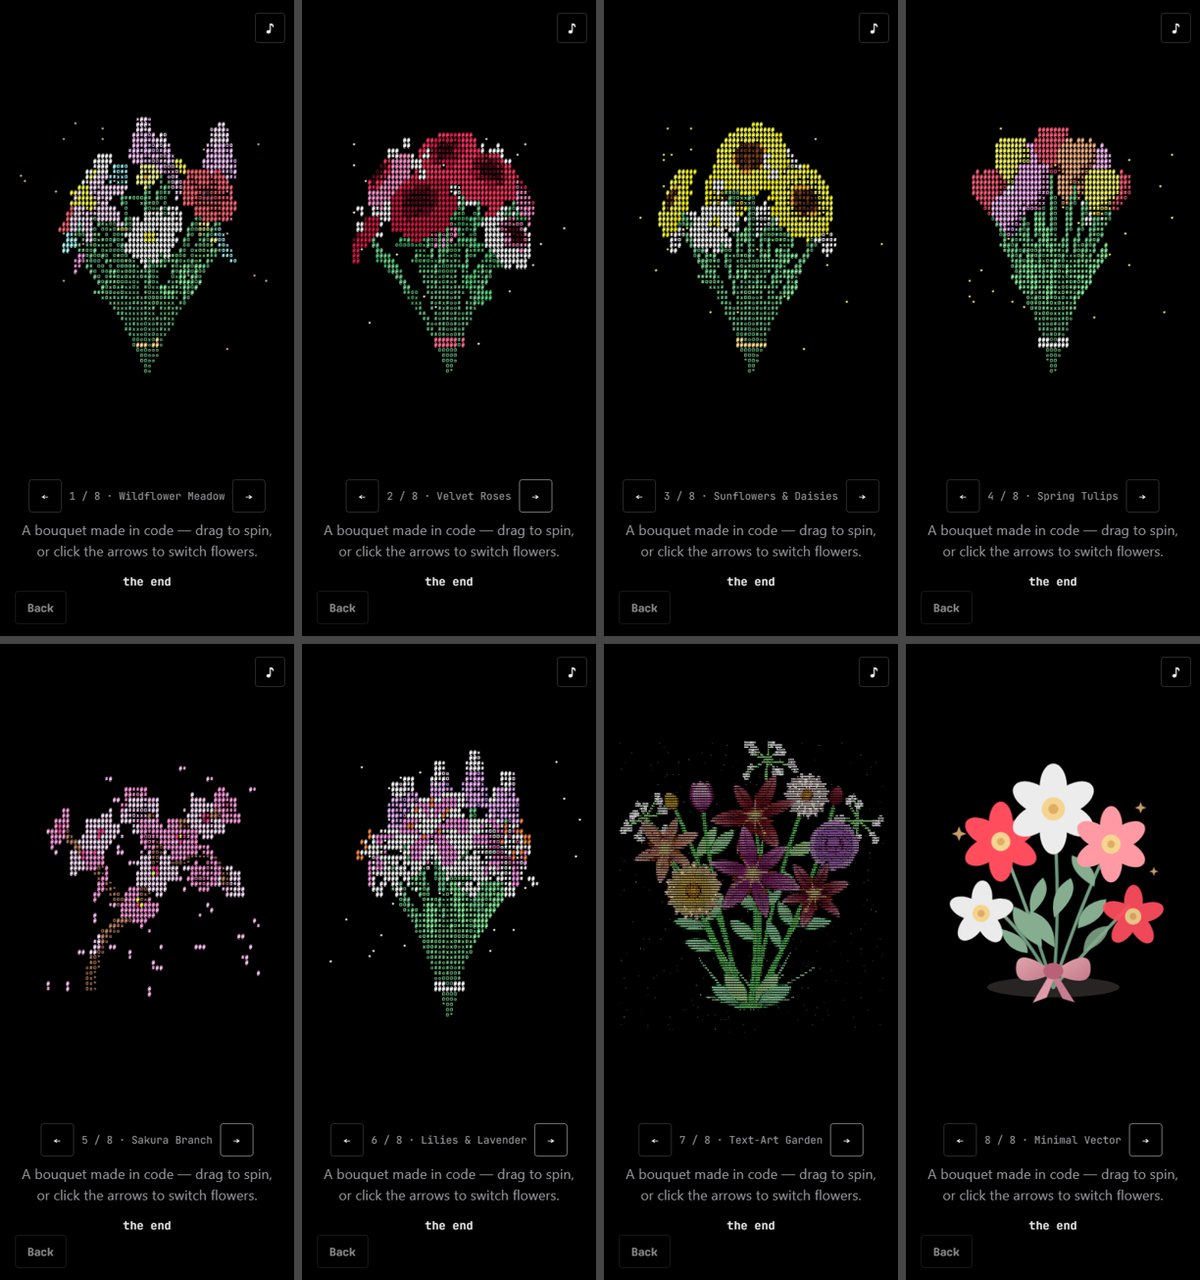
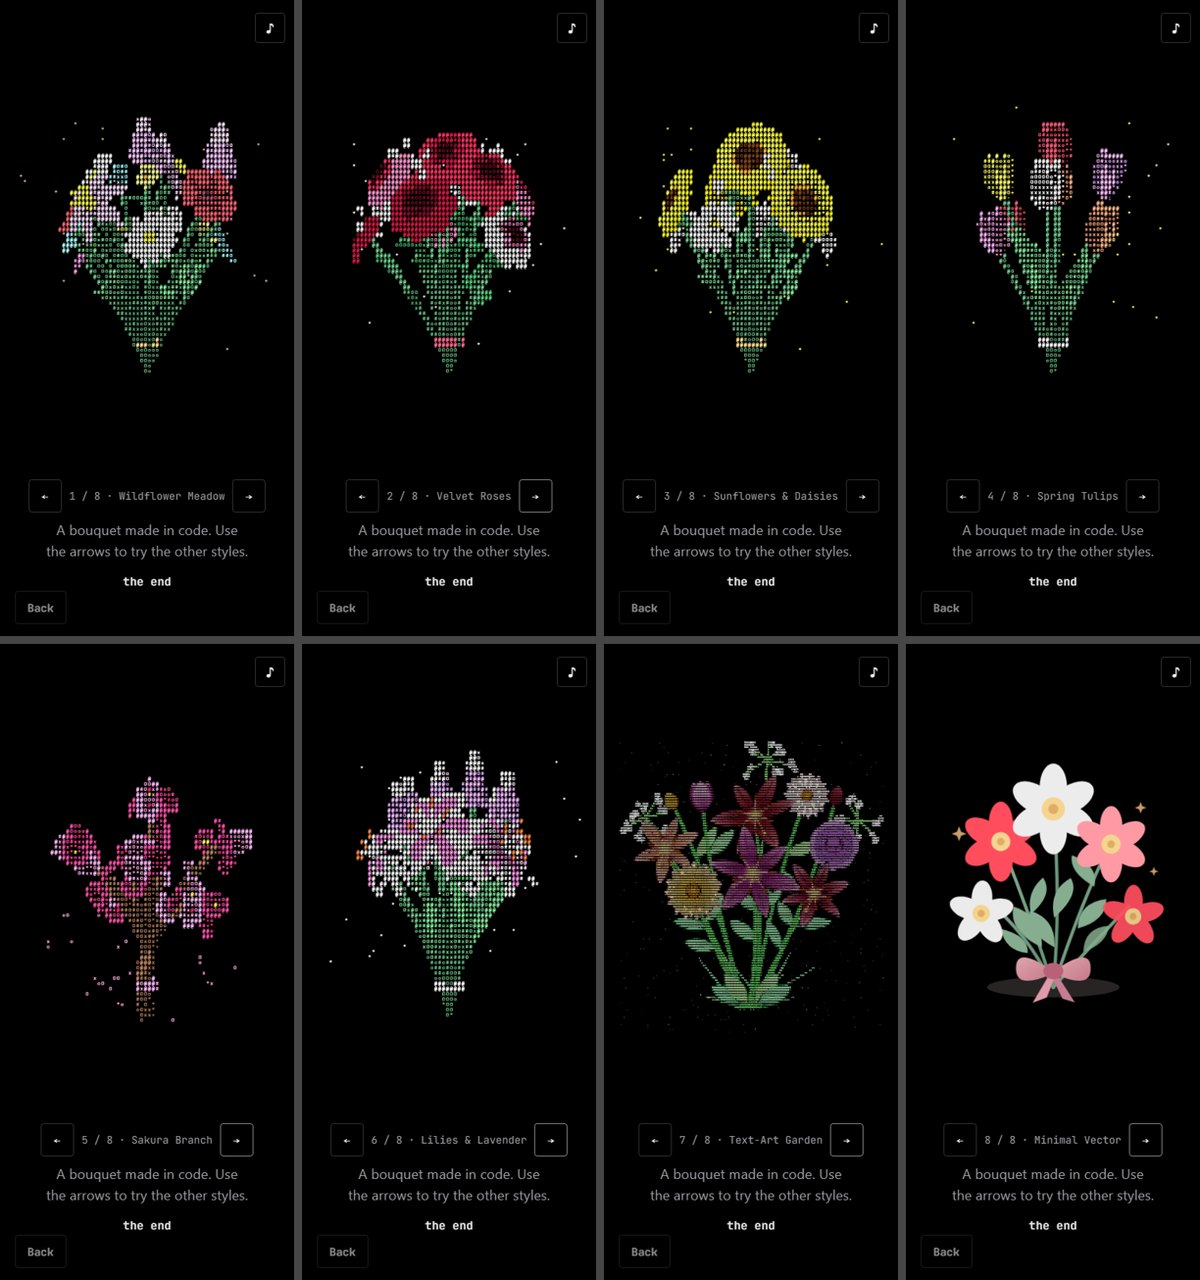
Redesign the tulip and sakura bouquets and correct the end note

diff --git a/js/bouquet3dScene.js b/js/bouquet3dScene.js
@@ -50,8 +50,8 @@ const DEFAULT_COLORS = {
   tulipRed: [244, 66, 86], tulipCoral: [255, 128, 96], tulipYellow: [254, 212, 74],
   tulipPink: [248, 126, 178], tulipViolet: [186, 134, 244], tulipCream: [254, 240, 224],
   // Sakura branch (richer pinks so the renderer's brightness lift keeps them glowing pink, not white)
-  bark: [134, 92, 70], sakuraPink: [255, 108, 154], sakuraPale: [255, 158, 192],
-  sakuraCore: [224, 52, 108], sakuraPetal: [255, 132, 172],
+  bark: [134, 92, 70], sakuraPink: [232, 56, 118], sakuraPale: [255, 128, 176],
+  sakuraCore: [170, 24, 76], sakuraPetal: [255, 132, 172],
   // Stargazer lilies & lavender
   stargazer: [246, 104, 162], stargazerEdge: [255, 218, 234], anther: [208, 94, 48],
   lavender: [168, 126, 242], lavenderTip: [212, 182, 255], babysBreath: [246, 242, 252],
@@ -410,9 +410,7 @@ function addSunflower(scene, flower, start, random) {
 function addTulip(scene, flower, start, random) {
   const { points } = scene;
   // Build each tulip around a tilted vertical axis so its goblet points skyward.
-  const leanX = flower.x * .22;
-  const leanZ = flower.z * .22;
-  const axis = unit(leanX, 1, leanZ);
+  const axis = unit(flower.x * .34, 1, flower.z * .34);
   const sideA = unit(axis.z, 0, -axis.x || 1);
   const sideB = unit(
     axis.y * sideA.z - axis.z * sideA.y,
@@ -420,30 +418,34 @@ function addTulip(scene, flower, start, random) {
     axis.x * sideA.y - axis.y * sideA.x,
   );
   const phase = random() * TURN;
-  const height = flower.size * 1.48;
-  const maxRadius = flower.size * .56;
+  const height = flower.size * 1.55;
+  const maxRadius = flower.size * .50;
 
-  // 3 inner + 3 outer overlapping cupped petals curving upward and gently inward at the rim.
+  // 3 inner + 3 outer petals. Each one ends in its own point, so the rim reads as a crown.
   for (let pass = 0; pass < 2; pass += 1) {
     for (let k = 0; k < 3; k += 1) {
       const centerAngle = phase + pass * (Math.PI / 3) + k * (TURN / 3);
-      const radialBoost = pass === 0 ? .88 : 1.03;
+      const radialBoost = pass === 0 ? .84 : 1.04;
       const growth = addGrowth(scene, flower, start + pass * .07 + k * .04, .28);
-      for (let row = 0; row <= 20; row += 1) {
-        const progress = row / 20;
-        // Classic tulip profile: narrow base -> full rounded belly -> softly tucked rim.
-        const r = maxRadius * radialBoost * (.22 + .78 * Math.sin(progress * Math.PI * .74));
-        const h = height * progress;
-        const arcSpan = .92 * Math.sin(Math.PI * Math.min(1, .12 + progress * .88)) ** .65;
-        for (let column = -7; column <= 7; column += 1) {
-          const rib = column / 7;
+      for (let row = 0; row <= 22; row += 1) {
+        const progress = row / 22;
+        // Narrow base, full belly, rim drawn back in.
+        const r = maxRadius * radialBoost * (.20 + .80 * Math.sin(progress * Math.PI * .78));
+        const arcSpan = .98 * Math.sin(Math.PI * Math.min(1, .14 + progress * .74)) ** .5;
+        for (let column = -8; column <= 8; column += 1) {
+          const rib = column / 8;
+          const edge = Math.abs(rib);
+          // The sides of a petal stop lower than its middle: that makes the pointed tip.
+          const h = height * progress * (1 - .36 * edge ** 1.5) * (pass === 0 ? .93 : 1);
           const a = centerAngle + rib * arcSpan;
           const ca = Math.cos(a);
           const sa = Math.sin(a);
           const ox = sideA.x * ca + sideB.x * sa;
           const oy = sideA.y * ca + sideB.y * sa;
           const oz = sideA.z * ca + sideB.z * sa;
-          const shade = .34 + progress * .42 + (pass ? .06 : -.04) + .08 * (1 - Math.abs(rib));
+          // Dim middle, bright edges and tip: each petal keeps its outline in text characters.
+          const outline = edge > .74 || progress > .93 ? .34 : 0;
+          const shade = .16 + progress * .34 + outline + (pass ? 0 : -.16);
           points.push({
             x: flower.x + axis.x * h + ox * r,
             y: flower.y + axis.y * h + oy * r,
@@ -508,7 +510,8 @@ function addSakuraBlossom(scene, blossom, start, random) {
         const across = rib * .35 * length * profile;
         const radial = length * (.14 + .86 * progress);
         const lift = length * (.18 * progress ** 2 + .12 * Math.sin(Math.PI * progress));
-        const shade = .48 + progress * .34 + .08 * (1 - Math.abs(rib));
+        const rim = progress > .78 || Math.abs(rib) > .8 ? .20 : 0;
+        const shade = .22 + progress * .40 + rim;
         addOnFace(points, face, radial * cosine - across * sine, radial * sine + across * cosine,
           lift, color, shade, growth);
       }
@@ -650,24 +653,22 @@ function buildSunflowers(scene, random) {
 }
 
 function buildTulips(scene, random) {
+  // Three clear tiers with space between the heads, so every goblet shape stays readable.
   const tulips = [
-    { x: .00, y: .82, z: .02, size: .30, tilt: .0, color: 'tulipRed' },
-    { x: -.32, y: .72, z: .28, size: .28, tilt: -.6, color: 'tulipYellow' },
-    { x: .34, y: .70, z: .26, size: .28, tilt: .7, color: 'tulipCoral' },
-    { x: -.30, y: .74, z: -.30, size: .28, tilt: -2.3, color: 'tulipPink' },
-    { x: .32, y: .68, z: -.30, size: .28, tilt: 2.3, color: 'tulipViolet' },
-    { x: .02, y: .46, z: .54, size: .27, tilt: .0, color: 'tulipPink' },
-    { x: -.56, y: .42, z: .30, size: .27, tilt: -1.0, color: 'tulipRed' },
-    { x: .58, y: .42, z: .26, size: .27, tilt: 1.1, color: 'tulipYellow' },
-    { x: -.58, y: .44, z: -.24, size: .26, tilt: -1.9, color: 'tulipCream' },
-    { x: .56, y: .44, z: -.26, size: .26, tilt: 1.9, color: 'tulipRed' },
-    { x: -.02, y: .48, z: -.56, size: .27, tilt: 3.1, color: 'tulipCoral' },
-    { x: -.26, y: .22, z: .48, size: .25, tilt: -.5, color: 'tulipViolet' },
-    { x: .30, y: .22, z: -.48, size: .25, tilt: 2.5, color: 'tulipCream' },
+    { x: .02, y: .86, z: .00, size: .30, tilt: .0, color: 'tulipRed' },
+    { x: -.50, y: .56, z: .16, size: .29, tilt: -1.1, color: 'tulipYellow' },
+    { x: .52, y: .58, z: -.14, size: .29, tilt: 1.9, color: 'tulipViolet' },
+    { x: .14, y: .46, z: .52, size: .29, tilt: .3, color: 'tulipCream' },
+    { x: -.14, y: .52, z: -.52, size: .29, tilt: -2.9, color: 'tulipCoral' },
+    { x: -.40, y: .02, z: .48, size: .27, tilt: -.7, color: 'tulipPink' },
+    { x: .60, y: .08, z: .34, size: .27, tilt: 1.0, color: 'tulipCoral' },
+    { x: .38, y: .04, z: -.50, size: .27, tilt: 2.5, color: 'tulipYellow' },
+    { x: -.62, y: .06, z: -.32, size: .27, tilt: -2.1, color: 'tulipRed' },
   ];
   tulips.forEach((tulip, index) => {
     const start = .015 + (index % 7) * .02;
-    addStem(scene, tulip, index, start, random, { leafStyle: 'sword', leafCount: index % 2 === 0 ? 2 : 1 });
+    const leafCount = index > 4 ? 0 : index % 3 === 0 ? 2 : 1;
+    addStem(scene, tulip, index, start, random, { leafStyle: 'sword', leafCount });
     addTulip(scene, tulip, start + STEM_SPAN, random);
   });
   addTie(scene.points, 'tulipCream', 3, .13);
@@ -676,59 +677,72 @@ function buildTulips(scene, random) {
 
 function buildSakura(scene, random) {
   const { points } = scene;
-  // Main sweeping branch + sculptural 3D twigs reaching forward and back.
-  const segments = [
-    { from: { x: -.78, y: -1.14, z: -.22 }, to: { x: -.05, y: -.14, z: .04 }, r0: .046, r1: .034, bend: { x: -.12, y: .12, z: .08 }, start: .00, span: .22 },
-    { from: { x: -.05, y: -.14, z: .04 }, to: { x: .82, y: .84, z: .24 }, r0: .034, r1: .015, bend: { x: -.10, y: .24, z: .14 }, start: .18, span: .24 },
-    { from: { x: -.14, y: -.26, z: .00 }, to: { x: -.76, y: .66, z: .42 }, r0: .028, r1: .012, bend: { x: -.08, y: .16, z: .10 }, start: .16, span: .24 },
-    { from: { x: .14, y: .12, z: .08 }, to: { x: -.28, y: .98, z: -.52 }, r0: .025, r1: .011, bend: { x: .06, y: .16, z: -.10 }, start: .22, span: .22 },
-    { from: { x: .36, y: .36, z: .16 }, to: { x: .74, y: .12, z: -.56 }, r0: .022, r1: .010, bend: { x: .10, y: .14, z: -.08 }, start: .25, span: .20 },
-    { from: { x: -.42, y: .24, z: .24 }, to: { x: -.18, y: .62, z: .76 }, r0: .019, r1: .009, bend: { x: -.04, y: .10, z: .08 }, start: .26, span: .18 },
+  // One trunk rising from the tie, splitting into branches that carry a rounded crown of blossom.
+  const fork = { x: .02, y: -.58, z: .00 };
+  addWoodSegment(points, BASE, fork, .085, .062, { x: -.05, y: 0, z: .02 }, .00, .16);
+  const tips = [
+    { x: .04, y: .96, z: .02 },
+    { x: -.74, y: .52, z: .16 },
+    { x: .76, y: .56, z: -.12 },
+    { x: .16, y: .40, z: .72 },
+    { x: -.18, y: .46, z: -.72 },
+    { x: -.60, y: -.04, z: -.36 },
+    { x: .62, y: -.02, z: .40 },
   ];
-  for (const seg of segments) {
-    addWoodSegment(points, seg.from, seg.to, seg.r0, seg.r1, seg.bend, seg.start, seg.span);
-  }
-
-  const blossoms = [
-    { x: -.76, y: .68, z: .44, size: .20, tilt: -.72, color: 'sakuraPink' },
-    { x: -.56, y: .42, z: .34, size: .21, tilt: -.45, color: 'sakuraPale' },
-    { x: -.42, y: .12, z: .20, size: .18, tilt: -1.10, color: 'sakuraPink' },
-    { x: -.18, y: .64, z: .76, size: .20, tilt: -.18, color: 'sakuraPale' },
-    { x: -.32, y: .44, z: .54, size: .18, tilt: -.62, color: 'sakuraPink' },
-    { x: -.04, y: -.10, z: .12, size: .19, tilt: .22, color: 'sakuraPink' },
-    { x: .16, y: .26, z: .24, size: .22, tilt: .35, color: 'sakuraPale' },
-    { x: .44, y: .58, z: .34, size: .21, tilt: .64, color: 'sakuraPink' },
-    { x: .68, y: .76, z: .32, size: .20, tilt: .92, color: 'sakuraPale' },
-    { x: .86, y: .88, z: .22, size: .18, tilt: 1.15, color: 'sakuraPink' },
-    { x: .54, y: .86, z: .04, size: .19, tilt: 1.55, color: 'sakuraPale' },
-    { x: -.02, y: .60, z: -.20, size: .20, tilt: 2.65, color: 'sakuraPink' },
-    { x: -.20, y: .86, z: -.40, size: .21, tilt: -2.60, color: 'sakuraPale' },
-    { x: -.32, y: 1.02, z: -.54, size: .19, tilt: -2.25, color: 'sakuraPink' },
-    { x: .26, y: .44, z: -.28, size: .19, tilt: 2.40, color: 'sakuraPale' },
-    { x: .58, y: .34, z: -.34, size: .20, tilt: 2.05, color: 'sakuraPink' },
-    { x: .76, y: .12, z: -.58, size: .19, tilt: 2.55, color: 'sakuraPale' },
-    { x: .46, y: .16, z: -.54, size: .17, tilt: 2.95, color: 'sakuraPink' },
-    { x: -.58, y: -.56, z: -.08, size: .17, tilt: -1.40, color: 'sakuraPale' },
-  ];
-  blossoms.forEach((blossom, index) => {
-    addSakuraBlossom(scene, blossom, .32 + (index % 8) * .036, random);
+  const bends = tips.map(tip => ({ x: -tip.z * .12, y: .10, z: tip.x * .12 }));
+  tips.forEach((tip, index) => {
+    addWoodSegment(points, fork, tip, .046, .016, bends[index], .14 + index * .015, .24);
   });
 
-  // Drifting pink petals floating gently around the branch.
-  for (let i = 0; i < 48; i += 1) {
+  // A puff of small blossoms around each tip, turned different ways so some face the viewer
+  // from every side, plus a single blossom part of the way along every branch.
+  const cluster = [
+    { dx: 0, dy: .09, dz: 0, turn: 0 },
+    { dx: .19, dy: .00, dz: .06, turn: 1.3 },
+    { dx: -.18, dy: -.01, dz: -.07, turn: -1.3 },
+    { dx: .04, dy: -.07, dz: .19, turn: .2 },
+    { dx: -.06, dy: -.05, dz: -.19, turn: 3.1 },
+    { dx: .08, dy: -.20, dz: -.04, turn: 2.2 },
+  ];
+  const blossoms = [];
+  tips.forEach((tip, branch) => {
+    cluster.forEach((part, index) => {
+      blossoms.push({
+        x: tip.x + part.dx, y: tip.y + part.dy, z: tip.z + part.dz,
+        size: .125 + random() * .03,
+        tilt: part.turn + branch * .9 + (random() - .5) * .5,
+        color: (branch + index) % 3 === 0 ? 'sakuraPale' : 'sakuraPink',
+      });
+    });
+    const t = .58;
+    const arch = Math.sin(t * Math.PI);
+    const x = fork.x + (tip.x - fork.x) * t + bends[branch].x * arch;
+    const z = fork.z + (tip.z - fork.z) * t + bends[branch].z * arch;
+    blossoms.push({
+      x, y: fork.y + (tip.y - fork.y) * t + bends[branch].y * arch + .06, z, size: .13,
+      tilt: Math.atan2(x, z), color: branch % 2 === 0 ? 'sakuraPale' : 'sakuraPink',
+    });
+  });
+  blossoms.forEach((blossom, index) => {
+    addSakuraBlossom(scene, blossom, .34 + (index % 8) * .034, random);
+  });
+
+  // A few petals drifting down around the branches.
+  for (let i = 0; i < 22; i += 1) {
     const angle = random() * TURN;
-    const radius = .45 + .85 * random();
+    const radius = .50 + .60 * random();
     const cx = Math.cos(angle) * radius;
-    const cy = -1.0 + random() * 2.2;
+    const cy = -1.05 + random() * .95;
     const cz = Math.sin(angle) * radius;
-    const visibleAt = .68 + i * .006;
-    for (let d = 0; d < 3; d += 1) {
+    const visibleAt = .70 + i * .011;
+    for (let d = 0; d < 2; d += 1) {
       points.push({
-        x: cx + d * .014, y: cy - d * .009, z: cz + (d - 1) * .010,
-        normal: { x: 0, y: 1, z: 0 }, color: 'sakuraPetal', shade: .58 + random() * .30, visibleAt,
+        x: cx + d * .016, y: cy - d * .010, z: cz,
+        normal: { x: 0, y: 1, z: 0 }, color: 'sakuraPetal', shade: .30 + random() * .25, visibleAt,
       });
     }
   }
+  addTie(points, 'sakuraPale', 3, .11);
 }
 
 function buildLilies(scene, random) {

diff --git a/js/config.js b/js/config.js
@@ -149,7 +149,7 @@ export const cardConfig = {
     src: 'assets/audio/your-song.mp3',
     volume: 0.15, // Initial volume for the song and sound effects, from 0 to 1
     // Shown on the last page below the bouquet (leave empty '' to hide).
-    note: 'A bouquet made in code — drag to spin, or click the arrows to switch flowers.',
+    note: 'A bouquet made in code. Use the arrows to try the other styles.',
   },
 
   // After deploying your card, run `python tools/generate_qr.py https://your-url/` if you want a printable QR code.

diff --git a/README.md b/README.md
@@ -16,7 +16,7 @@ Works on phones and desktops. Turn your sound on for the effects.
 2. **Two questions.** Write your own inside jokes. The wrong answer runs away from the pointer or finger, then gives up after a few tries, so nobody gets stuck.
 3. **Congratulations.** The name appears with a burst of text-character confetti.
 4. **Your message.** It types out at a readable size and splits into pages on small screens, so nothing ever scrolls.
-5. **The bouquet.** Flowers bloom on the last page. Visitors can drag to spin them and use **← / →** to try all eight styles.
+5. **The bouquet.** Flowers bloom on the last page. Visitors use **← / →** to try all eight styles, and can drag the six 3D ones to spin them.
 
 ## Eight bouquet styles
 
@@ -28,7 +28,7 @@ Works on phones and desktops. Turn your sound on for the effects.
 | 2 | Velvet Roses | 3D layered roses with baby's breath |
 | 3 | Sunflowers & Daisies | 3D sunflowers with chamomile daisies |
 | 4 | Spring Tulips | 3D cupped tulips with long leaves |
-| 5 | Sakura Branch | 3D cherry-blossom branch with falling petals |
+| 5 | Sakura Branch | 3D branching cherry blossoms with falling petals |
 | 6 | Lilies & Lavender | 3D lilies, lavender spikes and baby's breath |
 | 7 | Text-Art Garden | Detailed flat bouquet in text characters |
 | 8 | Minimal Vector | Simple animated SVG illustration |
